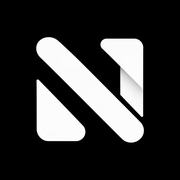
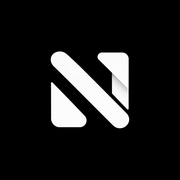
CRM: versión iPhone (pantalla de inicio): icono, cabecera, zonas seguras y dictado con el micro del teclado

Changed region(s): [[0.1944, 0.1944, 0.8056, 0.8056], [0.1944, 0.4444, 0.5, 0.8056]]

diff --git a/crm/src/components/Dictar.tsx b/crm/src/components/Dictar.tsx
@@ -1,5 +1,5 @@
 import { useEffect, useRef, useState } from 'react'
-import { Check, Loader2, Mic, Square, Undo2, UserPlus } from 'lucide-react'
+import { Check, Keyboard, Loader2, Mic, Square, Undo2, UserPlus } from 'lucide-react'
 import * as db from '../lib/datos'
 import { escuchar, hayVoz, interpretar } from '../lib/dictado'
 import { corta } from '../lib/fechas'
@@ -19,23 +19,30 @@ export default function Dictar({ onClose, contexto }: { onClose: () => void; con
   const [editar, setEditar] = useState<Tarea | null>(null)
   const parar = useRef<(() => void) | null>(null)
   const textoRef = useRef('')
+  const area = useRef<HTMLTextAreaElement>(null)
+  const [teclado, setTeclado] = useState(false) // dictar con el micro del teclado (iPhone)
+
+  /** Sin micro del navegador (o falla): se dicta con el micro del teclado */
+  function usarTeclado() { setOyendo(false); setTeclado(true); area.current?.focus() }
+  const errorVoz = (m: string) => { if (/not-allowed|service-not-allowed|audio-capture|permiso/.test(m)) usarTeclado(); else { setError(m); setOyendo(false) } }
 
   function empezar() {
     setError(null); setHecho(null); setTexto(''); textoRef.current = ''
-    if (!hayVoz()) { setError('Este navegador no permite dictar. Usa Chrome o escríbelo.'); return }
-    parar.current = escuchar((t) => { setTexto(t); textoRef.current = t }, () => setOyendo(false), (m) => { setError(m); setOyendo(false) })
+    if (!hayVoz()) return usarTeclado()
+    parar.current = escuchar((t) => { setTexto(t); textoRef.current = t }, () => setOyendo(false), errorVoz)
     setOyendo(true)
   }
   /** Vuelve a escuchar y añade lo nuevo detrás de lo que ya hay (sin borrar lo editado) */
   function seguir() {
     setError(null)
-    if (!hayVoz()) { setError('Este navegador no permite dictar. Usa Chrome o escríbelo.'); return }
+    if (!hayVoz()) return usarTeclado()
     const previo = textoRef.current.trim()
     parar.current = escuchar((t) => { const v = previo ? `${previo} ${t}` : t; setTexto(v); textoRef.current = v },
-      () => setOyendo(false), (m) => { setError(m); setOyendo(false) })
+      () => setOyendo(false), errorVoz)
     setOyendo(true)
   }
-  useEffect(() => { empezar(); return () => parar.current?.() }, []) // eslint-disable-line react-hooks/exhaustive-deps
+  // En iPhone/iPad se abre el teclado (su micro es lo más fiable); en el ordenador, el micro del CRM.
+  useEffect(() => { if (esMovilApple()) usarTeclado(); else empezar(); return () => parar.current?.() }, []) // eslint-disable-line react-hooks/exhaustive-deps
 
   async function procesar(t = textoRef.current) {
     parar.current?.(); setOyendo(false)
@@ -105,10 +112,10 @@ export default function Dictar({ onClose, contexto }: { onClose: () => void; con
               {oyendo ? <Square size={20} /> : <Mic size={24} />}
             </button>
             <p className="text-sm text-muted">
-              {pensando ? 'Claude está organizándolo…' : oyendo ? 'Te escucho. Pulsa el botón rojo para parar.' : texto ? 'Revisa o corrige el texto y pulsa «Crear». El micro añade más.' : 'Pulsa para hablar, o escríbelo abajo.'}
+              {teclado && !oyendo && !pensando && !texto ? <span className="flex items-center gap-1.5"><Keyboard size={16} className="shrink-0" /> Pulsa el micrófono 🎤 del teclado y habla. Luego «Crear».</span> : pensando ? 'Claude está organizándolo…' : oyendo ? 'Te escucho. Pulsa el botón rojo para parar.' : texto ? 'Revisa o corrige el texto y pulsa «Crear». El micro añade más.' : 'Pulsa para hablar, o escríbelo abajo.'}
             </p>
           </div>
-          <textarea rows={4} className={entrada} value={texto} onChange={(e) => { setTexto(e.target.value); textoRef.current = e.target.value }}
+          <textarea ref={area} rows={4} className={entrada} value={texto} onChange={(e) => { setTexto(e.target.value); textoRef.current = e.target.value }}
             placeholder="Ej.: Oye, agéndame una llamada con Diego Fernández para arreglar lo de su Airwallex, a ser posible esta semana…"
             onKeyDown={(e) => e.key === 'Enter' && (e.metaKey || e.ctrlKey) && procesar()} />
           {error && <p className="text-sm text-rojo">{error}</p>}
@@ -119,4 +126,8 @@ export default function Dictar({ onClose, contexto }: { onClose: () => void; con
       )}
     </Modal>
   )
+}
+
+function esMovilApple() {
+  return /iPhone|iPad|iPod/.test(navigator.userAgent) || (navigator.platform === 'MacIntel' && navigator.maxTouchPoints > 1)
 }

diff --git a/crm/src/App.tsx b/crm/src/App.tsx
@@ -53,7 +53,14 @@ export default function App() {
         {MODO === 'demo' && <p className="mt-auto px-2 text-xs text-white/40">Modo demo · datos solo en este navegador</p>}
       </aside>
 
-      <main className="min-w-0 flex-1 px-4 pb-28 pt-5 md:px-8 md:pb-10 md:pt-8">
+      {/* Móvil: cabecera con el logo */}
+      <header className="sticky top-0 z-30 flex items-center gap-2 border-b border-line bg-paper/90 px-4 pb-2.5 pt-[max(0.625rem,env(safe-area-inset-top))] backdrop-blur md:hidden">
+        <img src="/logo.png" alt="" className="size-7" />
+        <span className="text-[15px] font-bold tracking-tight">NomoTax</span>
+        <span className="text-[10px] uppercase tracking-[0.14em] text-muted">CRM</span>
+      </header>
+
+      <main className="min-w-0 flex-1 px-4 pb-[calc(8rem+env(safe-area-inset-bottom))] pt-4 md:px-8 md:pb-10 md:pt-8">
         <div className="mx-auto max-w-5xl">
           <Routes>
             <Route path="/" element={<Tareas />} />
@@ -68,7 +75,7 @@ export default function App() {
 
       {/* Móvil: barra inferior + botón de dictar */}
       <button onClick={() => setDictando(true)} aria-label="Dictar"
-        className="fixed bottom-20 right-4 z-40 flex h-14 w-14 items-center justify-center rounded-full bg-lima text-ink shadow-lg md:hidden">
+        className="fixed bottom-[calc(5rem+env(safe-area-inset-bottom))] right-4 z-40 flex h-14 w-14 items-center justify-center rounded-full bg-lima text-ink shadow-lg md:hidden">
         <Mic size={24} />
       </button>
       <nav className="fixed inset-x-0 bottom-0 z-30 grid grid-cols-4 border-t border-line bg-white pb-[env(safe-area-inset-bottom)] md:hidden">

diff --git a/crm/index.html b/crm/index.html
@@ -3,9 +3,15 @@
   <head>
     <meta charset="UTF-8" />
     <meta name="viewport" content="width=device-width, initial-scale=1.0, viewport-fit=cover" />
-    <meta name="theme-color" content="#111110" />
+    <meta name="theme-color" content="#f7f7f5" />
+    <!-- iPhone: «Añadir a pantalla de inicio» → app a pantalla completa -->
+    <meta name="apple-mobile-web-app-capable" content="yes" />
+    <meta name="mobile-web-app-capable" content="yes" />
+    <meta name="apple-mobile-web-app-status-bar-style" content="default" />
+    <meta name="apple-mobile-web-app-title" content="CRM NomoTax" />
+    <meta name="format-detection" content="telephone=no" />
     <link rel="icon" href="/favicon.ico" />
-    <link rel="apple-touch-icon" href="/apple-touch-icon.png" />
+    <link rel="apple-touch-icon" sizes="180x180" href="/apple-touch-icon.png" />
     <link rel="manifest" href="/manifest.webmanifest" />
     <title>CRM NomoTax</title>
   </head>

diff --git a/crm/src/components/ui.tsx b/crm/src/components/ui.tsx
@@ -5,7 +5,7 @@ import type { Prioridad } from '../lib/tipos'
 export function Modal({ titulo, onClose, children, ancho = 'max-w-lg' }: { titulo: string; onClose: () => void; children: ReactNode; ancho?: string }) {
   return (
     <div className="fixed inset-0 z-50 flex items-end justify-center bg-black/40 sm:items-center sm:p-4" onMouseDown={(e) => e.target === e.currentTarget && onClose()}>
-      <div className={`flex max-h-[92vh] w-full ${ancho} flex-col rounded-t-2xl bg-white shadow-xl sm:rounded-2xl`}>
+      <div className={`flex max-h-[92dvh] w-full ${ancho} flex-col rounded-t-2xl bg-white pb-[env(safe-area-inset-bottom)] shadow-xl sm:rounded-2xl sm:pb-0`}>
         <div className="flex items-center justify-between border-b border-line px-5 py-3">
           <h2 className="font-semibold">{titulo}</h2>
           <button onClick={onClose} className="rounded-lg p-1 text-muted hover:bg-paper" aria-label="Cerrar"><X size={20} /></button>

diff --git a/crm/src/pages/Tareas.tsx b/crm/src/pages/Tareas.tsx
@@ -24,7 +24,7 @@ export default function Tareas() {
     <>
       <div className="mb-5 flex flex-wrap items-center gap-3">
         <h1 className="mr-auto text-2xl font-semibold">Tareas</h1>
-        <div className="w-full sm:w-56"><SelCliente value={cliente} onChange={setCliente} /></div>
+        <div className="order-last w-full sm:order-none sm:w-56"><SelCliente value={cliente} onChange={setCliente} /></div>
         <Boton onClick={() => setAbierta({ cliente_id: cliente })}><Plus size={16} /> Nueva</Boton>
       </div>
       {cargando ? null : pendientes.length === 0 ? <Vacio>Nada pendiente. Pulsa «Dictar» para crear una tarea.</Vacio> : (

diff --git a/crm/src/index.css b/crm/src/index.css
@@ -13,3 +13,8 @@
 html, body { background: var(--color-paper); color: var(--color-ink); -webkit-font-smoothing: antialiased; overflow-x: hidden; }
 body { font-family: var(--font-sans); }
 input, textarea, select { font-size: 16px; }
+
+/* iPhone: sin resaltado gris al tocar y sin rebote raro del fondo */
+* { -webkit-tap-highlight-color: transparent; }
+html, body { overscroll-behavior-y: none; }
+button, a { touch-action: manipulation; }
